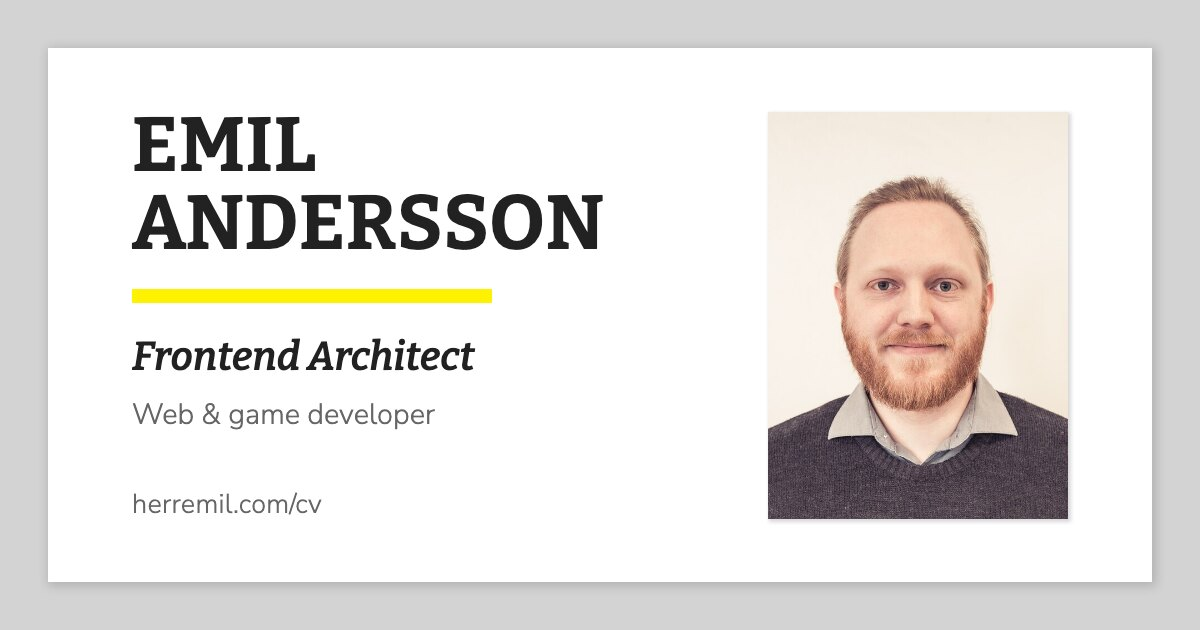
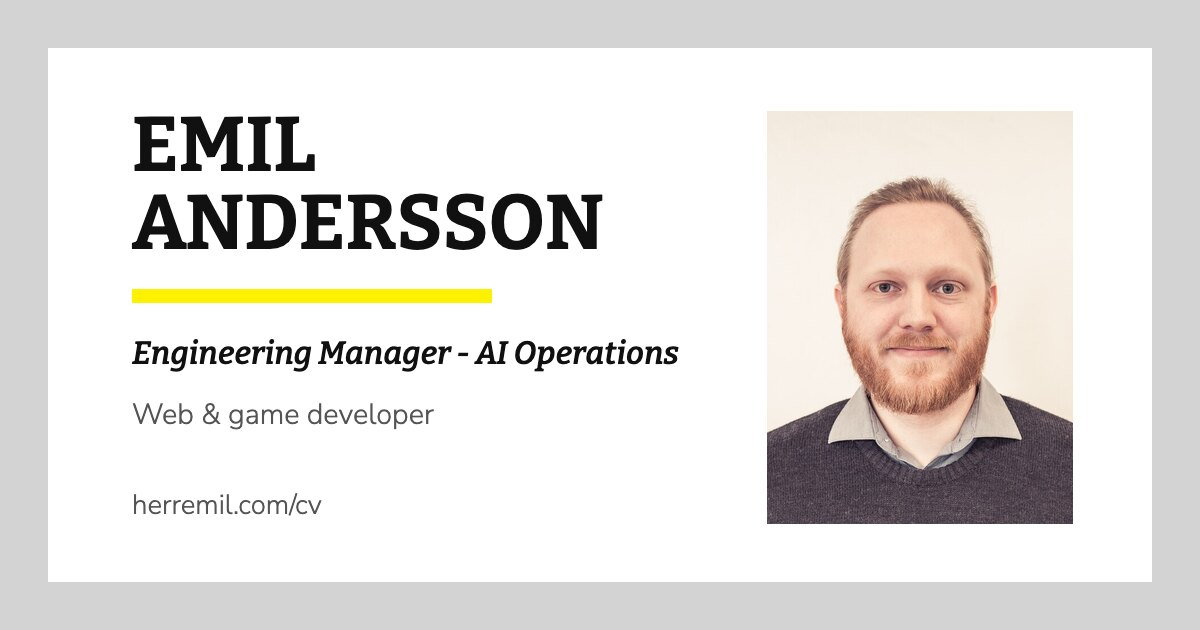
fix: update social card and its alt text to the current job title
The og:image:alt and twitter:image:alt copy read "Frontend Architect"
while the page heading and the JSON-LD Person.jobTitle both read
"Engineering Manager - AI Operations".

The alt text was not stale on its own — it accurately described the card
image, which also still said "Frontend Architect". Updating only the alt
would have made it wrong, so the card was regenerated and both now agree.

The card is reproduced from the repo's own assets (Bitter 700, Bitter
italic 600, Nunito Sans 300, headshot-540) at the previous card's exact
geometry: card inset 48px, text left edge 132px, yellow rule 360x14 at
y289, headshot 306x413 at 767,111. The reproduction was validated against
the previous card with the title text held constant before the copy was
swapped — every element box matched to the pixel. Encoding is unchanged:
1200x630, sRGB, quality 86, 4:2:0, progressive, stripped.

The longer title is set at 32px rather than 40px so it keeps an 88px
gutter to the headshot; at 40px it overran into the portrait. No other
element moved.

The "Frontend Architect, GetAccept" entry in the career history is
deliberately untouched — that role is historical (Apr 2021 - Nov 2024),
not stale.

Gate: lighthouserc.json assertions all pass (performance/accessibility/
best-practices/seo all 1.0; LCP 1354ms, CLS 0, TBT 0, TTI 1354ms). Three
preset audits report NaN locally under Lighthouse 0.14 + Chrome 150; the
pristine HEAD fails identically, so that is environmental drift and not
[…]

diff --git a/index.html b/index.html
@@ -32,14 +32,14 @@
     <meta property="og:image:type" content="image/jpeg">
     <meta property="og:image:width" content="1200">
     <meta property="og:image:height" content="630">
-    <meta property="og:image:alt" content="Emil Andersson — Frontend Architect. Web &amp; game developer. herremil.com/cv">
+    <meta property="og:image:alt" content="Emil Andersson — Engineering Manager - AI Operations. Web &amp; game developer. herremil.com/cv">
     <meta property="profile:first_name" content="Emil">
     <meta property="profile:last_name" content="Andersson">
     <meta name="twitter:card" content="summary_large_image">
     <meta name="twitter:title" content="Emil Andersson — CV">
     <meta name="twitter:description" content="CV of Emil Andersson — engineering manager, web and game developer.">
     <meta name="twitter:image" content="https://cv.herremil.com/img/og-card.jpg">
-    <meta name="twitter:image:alt" content="Emil Andersson — Frontend Architect. Web &amp; game developer. herremil.com/cv">
+    <meta name="twitter:image:alt" content="Emil Andersson — Engineering Manager - AI Operations. Web &amp; game developer. herremil.com/cv">
     <script type="application/ld+json">
     {"@context":"https://schema.org","@graph":[{"@type":"Person","@id":"https://herremil.com/#emil","name":"Emil Andersson","alternateName":"Emil Andréas Andersson","jobTitle":"Engineering Manager - AI Operations","worksFor":{"@type":"Organization","name":"GetAccept"},"email":"hello@herremil.com","url":"https://herremil.com/","address":{"@type":"PostalAddress","addressLocality":"Malmö","addressCountry":"SE"},"sameAs":["https://github.com/herremil","https://www.linkedin.com/in/herremil","https://herremil.itch.io"]},{"@type":"ProfilePage","@id":"https://herremil.com/cv/#profilepage","url":"https://herremil.com/cv/","name":"Emil Andersson CV","inLanguage":"en","mainEntity":{"@id":"https://herremil.com/#emil"}}]}
     </script>
